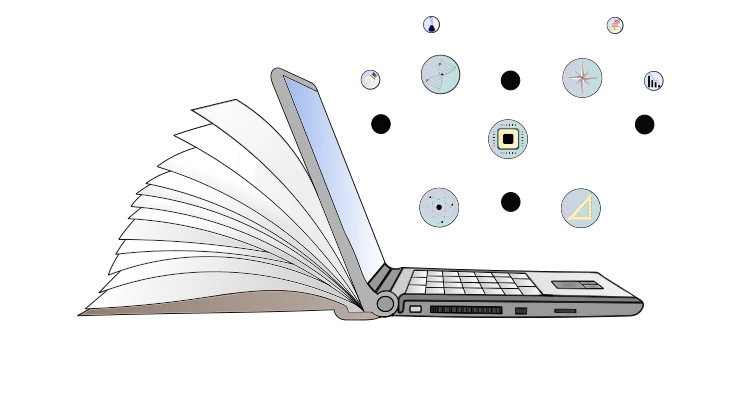
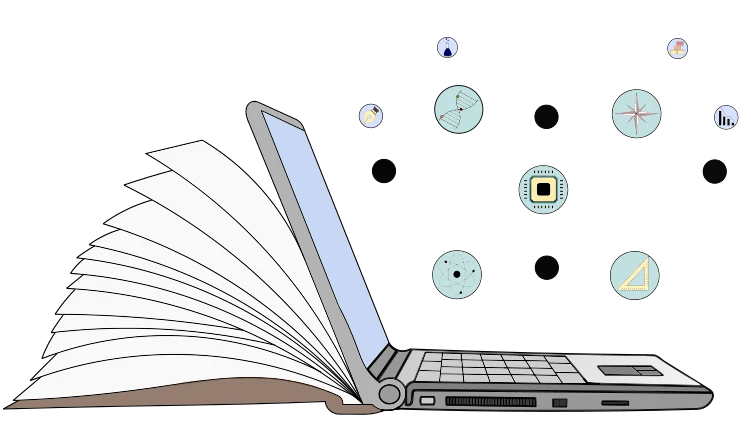
Added therms of use, changed the main background, started working upon the user profile site

diff --git a/src/components/subpages/termsAndConditions.tsx b/src/components/subpages/termsAndConditions.tsx
@@ -1,4 +1,5 @@
 import React, { Suspense } from "react";
+import { Link } from "react-router-dom";
 import { MainContainer } from "src/styled/main";
 import { LandingSectionWrapper, LandingSectionFilter } from "src/styled/subpages/welcome";
 import {
@@ -26,23 +27,192 @@ const TermsAndConditions:React.FC = () => (
           Regulamin
         </TermsAndConditionsHeader>
         <TermsAndConditionsParagraphsContainer className="block-center">
-          <TermsAndConditionsParagraph className="block-center">
-            §1. Lorem ipsum dolor sit amet consectetur adipisicing elit. Id maiores exercitationem rem iusto molestias aut doloremque magni eveniet facere at commodi, laborum delectus consectetur voluptatum eum voluptas, enim, unde necessitatibus.
+          <TermsAndConditionsParagraph className="block-center" isHeader>
+            Witamy w Sparkledge!
           </TermsAndConditionsParagraph>
           <TermsAndConditionsParagraph className="block-center">
-            §2. Lorem ipsum dolor sit amet consectetur adipisicing elit. Id maiores exercitationem rem iusto molestias aut doloremque magni eveniet facere at commodi, laborum delectus consectetur voluptatum eum voluptas, enim, unde necessitatibus.
+            Niniejszy regulamin określa zasady korzystania ze Strony internetowej Sparkledge, dostępnej pod adresem  
+            <Link to="/" style={{ marginLeft: "0.1em" }}>
+              https://sparkledge.pl
+            </Link>
+            . Użytkownik wchodząc na Stronę internetową, akceptuje niniejsze warunki. W przypadku braku akceptacji niniejszych warunków Użytkownik powinien opuścić Stronę Sparkledge.
+          </TermsAndConditionsParagraph>
+          <TermsAndConditionsParagraph className="block-center" isHeader>
+            Pliki cookie
           </TermsAndConditionsParagraph>
           <TermsAndConditionsParagraph className="block-center">
-            §3. Lorem ipsum dolor sit amet consectetur adipisicing elit. Id maiores exercitationem rem iusto molestias aut doloremque magni eveniet facere at commodi, laborum delectus consectetur voluptatum eum voluptas, enim, unde necessitatibus.
+            Na tej Stronie internetowej wykorzystujemy pliki cookie, aby spersonalizować doświadczenia online naszych odbiorców. Wchodząc na Stronę Sparkledge, wyrażasz zgodę na używanie wymaganych plików cookie.
           </TermsAndConditionsParagraph>
           <TermsAndConditionsParagraph className="block-center">
-            §4. Lorem ipsum dolor sit amet consectetur adipisicing elit. Id maiores exercitationem rem iusto molestias aut doloremque magni eveniet facere at commodi, laborum delectus consectetur voluptatum eum voluptas, enim, unde necessitatibus.
+            Plik cookie to plik tekstowy, który jest umieszczany przez serwer strony internetowej na dysku twardym komputera Użytkownika. Pliki cookie nie mogą być wykorzystywane do uruchamiania programów lub przenoszenia wirusów na komputer Użytkownika. Pliki cookie są ściśle przypisane do danego użytkownika i mogą być odczytane tylko przez serwer internetowy w domenie, która wygenerowała plik cookie.
           </TermsAndConditionsParagraph>
           <TermsAndConditionsParagraph className="block-center">
-            §5. Lorem ipsum dolor sit amet consectetur adipisicing elit. Id maiores exercitationem rem iusto molestias aut doloremque magni eveniet facere at commodi, laborum delectus consectetur voluptatum eum voluptas, enim, unde necessitatibus.
+            Pliki cookie mogą być wykorzystywane do zbierania, przechowywania i śledzenia informacji w celach statystycznych lub marketingowych związanych z prowadzeniem naszej Strony internetowej. Użytkownik ma prawo zaakceptować lub odmówić zaakceptowania opcjonalnych plików cookie. Niektóre pliki cookie są wymagane i niezbędne do prawidłowego funkcjonowania Strony internetowej. Takie pliki cookie nie wymagają zgody, ponieważ są aktywne przez cały czas. Pamiętaj , że akceptując wymagane pliki cookie, akceptujesz również pliki cookie stron trzecich, które mogą być wykorzystywane przez inne podmioty podczas korzystania z usług świadczonych przez te podmioty.
+          </TermsAndConditionsParagraph>
+          <TermsAndConditionsParagraph className="block-center" isHeader>
+            Licencja
           </TermsAndConditionsParagraph>
           <TermsAndConditionsParagraph className="block-center">
-            §6. Lorem ipsum dolor sit amet consectetur adipisicing elit. Id maiores exercitationem rem iusto molestias aut doloremque magni eveniet facere at commodi, laborum delectus consectetur voluptatum eum voluptas, enim, unde necessitatibus.
+            O ile nie stwierdzono inaczej, Sparkledge lub jej licencjodawcy są właścicielami praw własności intelektualnej wszystkich materiałów zamieszczonych na Stronie Sparkledge. Wszelkie prawa własności intelektualnej zostały zastrzeżone. Użytkownicy mogą uzyskać dostęp materiałów dostępnych na Stronie Sparkledge na własny użytek, z zastrzeżeniem ograniczeń określonych w niniejszym regulaminie.
+          </TermsAndConditionsParagraph>
+          <TermsAndConditionsParagraph className="block-center">
+            Zabrania się:
+          </TermsAndConditionsParagraph>
+          <TermsAndConditionsParagraph className="block-center">
+            1) Kopiowania lub ponownego publikowania materiałów umieszczonych na Stronie Sparkledge
+          </TermsAndConditionsParagraph>
+          <TermsAndConditionsParagraph className="block-center">
+            2) Sprzedaży, wypożyczania lub udzielania sublicencji na materiały umieszczone na Stronie Sparkledge
+          </TermsAndConditionsParagraph>
+          <TermsAndConditionsParagraph className="block-center">
+            3) Odtwarzania, powielania lub kopiowania materiałów zamieszczonych na Stronie Sparkledge
+          </TermsAndConditionsParagraph>
+          <TermsAndConditionsParagraph className="block-center">
+            4) Ponownego rozpowszechniania treści zamieszczonych na Stronie Sparkledge
+          </TermsAndConditionsParagraph>
+          <TermsAndConditionsParagraph className="block-center">
+            Niniejsza umowa zaczyna obowiązywać w dniu jej sporządzenia.
+          </TermsAndConditionsParagraph>
+          <TermsAndConditionsParagraph className="block-center">
+            Użytkownicy mają możliwość zamieszczania i wymiany opinii oraz informacji w niektórych częściach niniejszej Strony internetowej. Sparkledge nie filtruje, nie edytuje, nie publikuje ani nie sprawdza komentarzy przed ich umieszczeniem na Stronie. Komentarze nie odzwierciedlają poglądów i opinii Sparkledge, jej przedstawicieli ani podmiotów stowarzyszonych. Zamieszczone komentarze odzwierciedlają poglądy i opinie osoby, która je zamieściła. W zakresie przewidzianym przez obowiązujące prawo Sparkledge nie odpowiada za komentarze ani nie ponosi odpowiedzialności za jakiekolwiek zobowiązania, szkody lub wydatki spowodowane lub poniesione w wyniku wykorzystania, zamieszczenia lub pojawienia się komentarzy na niniejszej Stronie.
+          </TermsAndConditionsParagraph>
+          <TermsAndConditionsParagraph className="block-center">
+            Sparkledge zastrzega sobie prawo do monitorowania wszystkich komentarzy i usuwania tych, które można uznać za nieodpowiednie, obraźliwe lub naruszające niniejsze warunki.
+          </TermsAndConditionsParagraph>
+          <TermsAndConditionsParagraph className="block-center">
+            Użytkownik zapewnia i oświadcza, że:
+          </TermsAndConditionsParagraph>
+          <TermsAndConditionsParagraph className="block-center">
+            1) Jest uprawniony do zamieszczania Komentarzy na naszej Stronie internetowej i posiada wszelkie niezbędne licencje i zgody, aby to robić;
+          </TermsAndConditionsParagraph>
+          <TermsAndConditionsParagraph className="block-center">
+            2) Komentarze nie naruszają praw własności intelektualnej, w tym między innymi praw autorskich, patentów lub znaków towarowych stron trzecich;
+          </TermsAndConditionsParagraph>
+          <TermsAndConditionsParagraph className="block-center">
+            3) Komentarze nie zawierają treści o charakterze oszczerczym, zniesławiającym, obraźliwym, nieprzyzwoitym lub w inny sposób niezgodnym z prawem, stanowiącym naruszenie prywatności.
+          </TermsAndConditionsParagraph>
+          <TermsAndConditionsParagraph className="block-center">
+            4) Komentarze nie będą wykorzystywane do pozyskiwania lub promowania działalności biznesowej lub zwyczajów, ani do prezentowania działań komercyjnych lub niezgodnych z prawem.
+          </TermsAndConditionsParagraph>
+          <TermsAndConditionsParagraph className="block-center">
+            Niniejszym Użytkownik udziela Sparkledge niewyłącznej licencji na wykorzystywanie, powielanie, edytowanie i upoważnianie innych osób do wykorzystywania, powielania i edytowania jego komentarzy w dowolnej formie i we wszystkich formatach lub mediach.
+          </TermsAndConditionsParagraph>
+          <TermsAndConditionsParagraph className="block-center" isHeader>
+            Zamieszczanie odnośników do naszych treści
+          </TermsAndConditionsParagraph>
+          <TermsAndConditionsParagraph className="block-center">
+            Następujące podmioty mogą umieszczać odnośniki do naszych treści bez uprzedniej pisemnej zgody:
+          </TermsAndConditionsParagraph>
+          <TermsAndConditionsParagraph className="block-center">
+            1) Organy rządowe;
+          </TermsAndConditionsParagraph>
+          <TermsAndConditionsParagraph className="block-center">
+            2) Wyszukiwarki internetowe;
+          </TermsAndConditionsParagraph>
+          <TermsAndConditionsParagraph className="block-center">
+            3) Organizacje prasowe;
+          </TermsAndConditionsParagraph>
+          <TermsAndConditionsParagraph className="block-center">
+            4) Podmioty zajmujące się rozpowszechnianiem katalogów online mogą zamieszczać linki do naszej Strony w taki sam sposób, w jaki zamieszczają hiperłącza do stron internetowych innych wymienionych podmiotów; oraz
+          </TermsAndConditionsParagraph>
+          <TermsAndConditionsParagraph className="block-center">
+            5) Akredytowane przez system działalności, z wyjątkiem organizacji non-profit, punktów handlowych dla organizacji charytatywnych oraz grup zbierających fundusze na cele charytatywne, które nie mogą zamieszczać hiperłączy do naszej Strony internetowej.
+          </TermsAndConditionsParagraph>
+          <TermsAndConditionsParagraph className="block-center">
+            Organizacje te mogą zamieszczać odnośniki do naszej strony głównej, publikacji lub innych materiałów zamieszczonych na Stronie pod warunkiem, że odnośnik ten (a) nie wprowadza w błąd; (b) nie sugeruje, że jest sponsorowany, promowany lub uznany przez stronę linkującą oraz jej produkty i/lub usługi, jeśli nie jest to zgodne z prawdą ; oraz (c) pasuje do kontekstu strony linkującej.
+          </TermsAndConditionsParagraph>
+          <TermsAndConditionsParagraph className="block-center">
+            Dopuszczamy możliwość rozważenia i zatwierdzenia innych próśb o link od następujących typów organizacji:
+          </TermsAndConditionsParagraph>
+          <TermsAndConditionsParagraph className="block-center">
+            1) powszechnie znanych źródeł informacji dla konsumentów lub podmiotów gospodarczych;
+          </TermsAndConditionsParagraph>
+          <TermsAndConditionsParagraph className="block-center">
+            2) działalności internetowych typu dot-com;
+          </TermsAndConditionsParagraph>
+          <TermsAndConditionsParagraph className="block-center">
+            3) stowarzyszeń lub innych podmiotów reprezentujących organizacje charytatywne;
+          </TermsAndConditionsParagraph>
+          <TermsAndConditionsParagraph className="block-center">
+            4) dystrybutorów katalogów internetowych;
+          </TermsAndConditionsParagraph>
+          <TermsAndConditionsParagraph className="block-center">
+            5) portali internetowych;
+          </TermsAndConditionsParagraph>
+          <TermsAndConditionsParagraph className="block-center">
+            6) firm księgowych, prawniczych i konsultingowych; oraz
+          </TermsAndConditionsParagraph>
+          <TermsAndConditionsParagraph className="block-center">
+            7) instytucji edukacyjnych i stowarzyszeń handlowych.
+          </TermsAndConditionsParagraph>
+          <TermsAndConditionsParagraph className="block-center">
+            Zaakceptujemy prośby o link od tych podmiotów, jeśli uznamy, że: (a) link nie będzie nas stawiał w niekorzystnym świetle względem nas samych lub naszych akredytowanych działalności; (b) nie odnotowano u nas żadnych negatywnych zapisów związanych z daną organizacją; (c) korzyść dla nas wynikająca z widoczności hiperłącza rekompensuje brak nazwy Sparkledge; oraz (d) link występuje w kontekście informacji ogólnych zasobów.
+          </TermsAndConditionsParagraph>
+          <TermsAndConditionsParagraph className="block-center">
+            Podmioty te mogą zamieszczać linki do naszej strony głównej pod warunkiem, że link ten (a) nie wprowadza w błąd; (b) fałszywie nie sugeruje sponsorowania, promowania lub zaakceptowania witryny linkującej i jej produktów lub usług; oraz (c) wpisuje się w kontekst witryny linkującej.
+          </TermsAndConditionsParagraph>
+          <TermsAndConditionsParagraph className="block-center">
+            Jeśli należysz do organizacji wymienionych w punkcie 2 powyżej i jesteś zainteresowany umieszczeniem linku do naszej Strony internetowej, zgłoś nam to wysyłając e-mail na adres Sparkledge. W e-mailu należy podać swoje imię i nazwisko, nazwę organizacji / podmiotu, informacje kontaktowe oraz adres URL swojej witryny, listę adresów URL, z których zamierzasz linkować do naszej Strony, a także listę adresów URL naszej witryny, do których chcesz linkować. Nasz czas odpowiedzi wynosi od 2 do 3 tygodni.
+          </TermsAndConditionsParagraph>
+          <TermsAndConditionsParagraph className="block-center">
+            Zatwierdzone podmioty mogą zamieszczać odnośniki do naszej Strony w następujący sposób:
+          </TermsAndConditionsParagraph>
+          <TermsAndConditionsParagraph className="block-center">
+            1) Używając naszej nazwy (firmy); lub
+          </TermsAndConditionsParagraph>
+          <TermsAndConditionsParagraph className="block-center">
+            2) Poprzez zastosowanie ujednoliconego identyfikatora zasobów, do którego prowadzi odnośnik; lub
+          </TermsAndConditionsParagraph>
+          <TermsAndConditionsParagraph className="block-center">
+            3) Stosowanie innych opisów naszej Strony internetowej, do której kieruje link, uzasadnionych z punktu widzenia kontekstu i formatu treści strony linkującej.
+          </TermsAndConditionsParagraph>
+          <TermsAndConditionsParagraph className="block-center">
+            Nie wyrażamy zgody na wykorzystanie logo lub innych elementów graficznych Sparkledge w celu umieszczenia linku bez umowy licencyjnej na wykorzystanie znaku towarowego.
+          </TermsAndConditionsParagraph>
+          <TermsAndConditionsParagraph className="block-center" isHeader>
+            Odpowiedzialność za treść:
+          </TermsAndConditionsParagraph>
+          <TermsAndConditionsParagraph className="block-center">
+            Nie ponosimy odpowiedzialności za jakiekolwiek treści, które pojawiają się na innych stronach internetowych. Zobowiązujesz się do zapewnienia nam ochrony przed wszelkimi roszczeniami, które zostaną postawione wobec Twojej Strony. Link(i) nie powinny być umieszczane na Stronie, która może być postrzegana jako oszczercza, nieprzyzwoita lub niezgodna z prawem, lub która w inny sposób łamie, lub zachęca do łamania, prawa osób trzecich.
+          </TermsAndConditionsParagraph>
+          <TermsAndConditionsParagraph className="block-center" isHeader>
+            Zastrzeżenia praw:
+          </TermsAndConditionsParagraph>
+          <TermsAndConditionsParagraph className="block-center">
+            Zastrzegamy sobie prawo do zażądania usunięcia wszystkich lub wybranych linków kierujących do naszej Strony. Podmioty linkujące zobowiązują się do natychmiastowego usunięcia wszystkich linków prowadzących do naszej Strony w przypadku otrzymania takiego żądania z naszej strony. Zastrzegamy sobie również prawo do zmiany niniejszych warunków i zasad linkowania w dowolnym momencie. Umieszczanie linków do naszej Strony oznacza akceptację i zobowiązanie do przestrzegania niniejszych zasad i warunków.
+          </TermsAndConditionsParagraph>
+          <TermsAndConditionsParagraph className="block-center" isHeader>
+            Usuwanie linków z naszej Strony
+          </TermsAndConditionsParagraph>
+          <TermsAndConditionsParagraph className="block-center">
+            Jeśli zauważysz na naszej Stronie link, który z jakichkolwiek powodów jest obraźliwy, skontaktuj się z nami i poinformuj nas o tym w dowolnym momencie. Rozpatrzymy prośbę o usunięcie linku. Nie zobowiązujemy się jednak do usunięcia takiego linku, ani do udzielenia bezpośredniej odpowiedzi osobie zgłaszającej.
+          </TermsAndConditionsParagraph>
+          <TermsAndConditionsParagraph className="block-center">
+            Nie gwarantujemy, że informacje zawarte na tej stronie są poprawne. Nie zapewniamy ich kompletności ani dokładności, ani nie zobowiązujemy się do utrzymania dostępności strony lub aktualizacji materiałów na niej zawartych.
+          </TermsAndConditionsParagraph>
+          <TermsAndConditionsParagraph className="block-center" isHeader>
+            Wyłączenie odpowiedzialności:
+          </TermsAndConditionsParagraph>
+          <TermsAndConditionsParagraph className="block-center">
+            W maksymalnym zakresie dozwolonym przez obowiązujące prawo, nie udzielamy żadnych poręczeń, gwarancji i innych zobowiązań względem naszej strony internetowej i sposobu jej wykorzystywania. Żadne z postanowień niniejszej klauzuli wyłączenia odpowiedzialności nie będzie:
+          </TermsAndConditionsParagraph>
+          <TermsAndConditionsParagraph className="block-center">
+            1) ograniczać lub wyłączać naszej lub Twojej odpowiedzialności za śmierć lub odniesione obrażenia ciała;
+          </TermsAndConditionsParagraph>
+          <TermsAndConditionsParagraph className="block-center">
+            2) ograniczać lub wyłączać naszej lub Twojej odpowiedzialność za oszustwa lub świadome wprowadzanie w błąd;
+          </TermsAndConditionsParagraph>
+          <TermsAndConditionsParagraph className="block-center">
+            3) ograniczać odpowiedzialności naszej lub Twojej w jakikolwiek sposób, który nie jest zgodny z obowiązującym prawem; lub
+          </TermsAndConditionsParagraph>
+          <TermsAndConditionsParagraph className="block-center">
+            4) wyłączać odpowiedzialności naszej lub Twojej, która nie może zostać wyłączona na mocy obowiązującego prawa.
+          </TermsAndConditionsParagraph>
+          <TermsAndConditionsParagraph className="block-center">
+            Ograniczenia i wyłączenia odpowiedzialności zawarte w tym ustępie oraz w innych miejscach tego wyłączenia odpowiedzialności: (a) nie naruszają postanowień poprzedniego ustępu; oraz (b) regulują wszystkie zobowiązania wynikające z tego wyłączenia odpowiedzialności, w tym zobowiązania wynikające z umowy, z czynu niedozwolonego oraz z tytułu naruszenia obowiązków ustawowych.
+          </TermsAndConditionsParagraph>
+          <TermsAndConditionsParagraph className="block-center">
+            Pod warunkiem, że strona internetowa oraz informacje i usługi na niej zawarte są udostępniane nieodpłatnie, nie ponosimy odpowiedzialności za powstanie jakichkolwiek strat lub szkód o dowolnym charakterze.
           </TermsAndConditionsParagraph>
         </TermsAndConditionsParagraphsContainer>
       </LandingSectionFilter>

diff --git a/src/styled/subpages/termsAndConditions.tsx b/src/styled/subpages/termsAndConditions.tsx
@@ -1,5 +1,9 @@
 import styled from "styled-components";
 
+interface TermsAndConditionsParagraphInterface {
+  isHeader?: boolean,
+}
+
 export const TermsAndConditionsHeader = styled.header`
     width: calc(100% - 20px);
     padding: 10px;
@@ -19,19 +23,19 @@ export const TermsAndConditionsHeader = styled.header`
 export const TermsAndConditionsParagraphsContainer = styled.div`
     position: relative;
     top: 6vh;
-    padding-bottom: 6vh;
+    padding-bottom: 10vh;
 
     @media screen and (min-width: 425px){
         top: 10vh;
     }
 `;
 
-export const TermsAndConditionsParagraph = styled.p`
+export const TermsAndConditionsParagraph = styled.p<TermsAndConditionsParagraphInterface>`
     width: calc(90% - 20px);
     padding: 10px;
     text-align: left;
     text-indent: 0.8em;
-    font-size: 1em;
+    font-size: ${(props) => props.isHeader !== undefined ? "1.1em" : "1em"};
     color: ${(props) => props.theme.color};
     letter-spacing: 0.06em;
     line-height: 1.2em;
@@ -39,7 +43,7 @@ export const TermsAndConditionsParagraph = styled.p`
 
     @media screen and (min-width: 425px){
         width: calc(80% - 20px);
-        font-size: 1.2em;
+        font-size: ${(props) => props.isHeader !== undefined ? "1.35em" : "1.2em"};
     }
 
     @media screen and (min-width: 768px){
@@ -50,6 +54,6 @@ export const TermsAndConditionsParagraph = styled.p`
 
     @media screen and (min-width: 1024px){
         width: calc(60% - 20px);
-        font-size: 1.4em;
+        font-size: ${(props) => props.isHeader !== undefined ? "1.6em" : "1.4em"};
     }
 `;

diff --git a/src/components/subpages/profile.tsx b/src/components/subpages/profile.tsx
@@ -1,0 +1,5 @@
+import React from "react";
+
+const Profile:React.FC = () => <></>;
+
+export default Profile;
